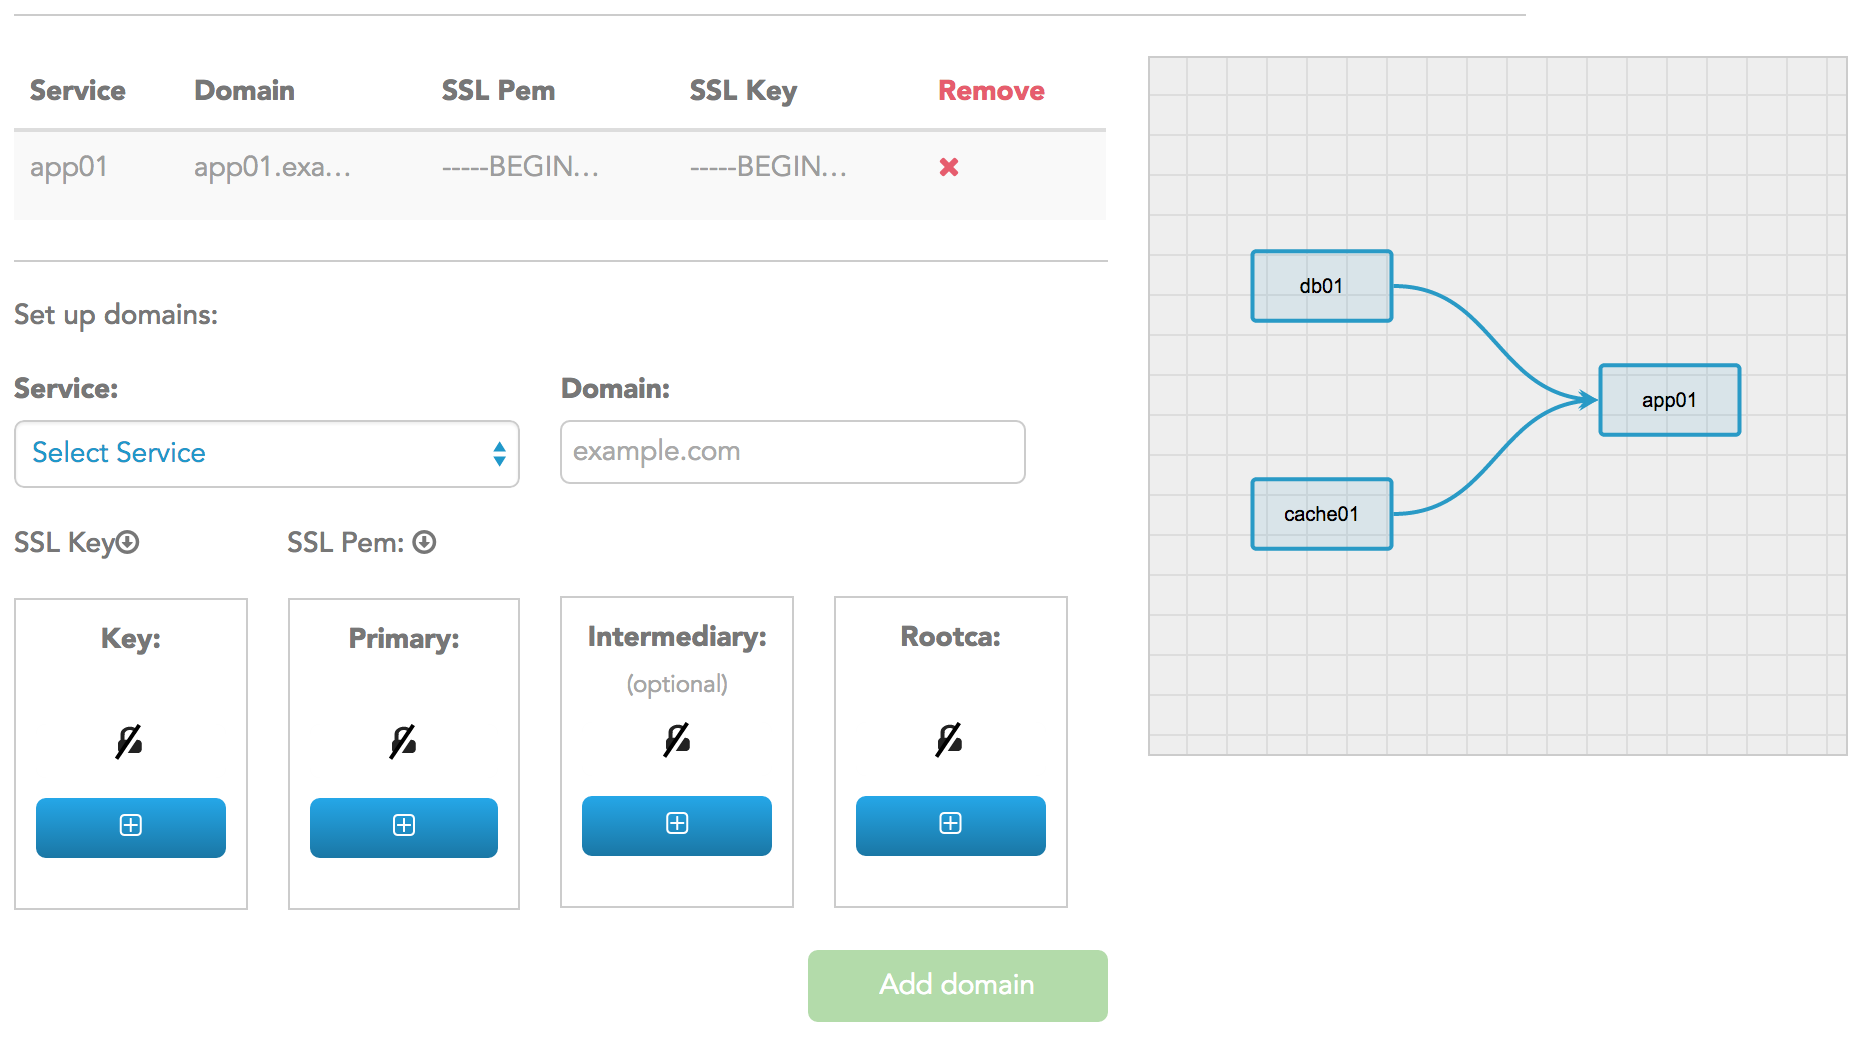
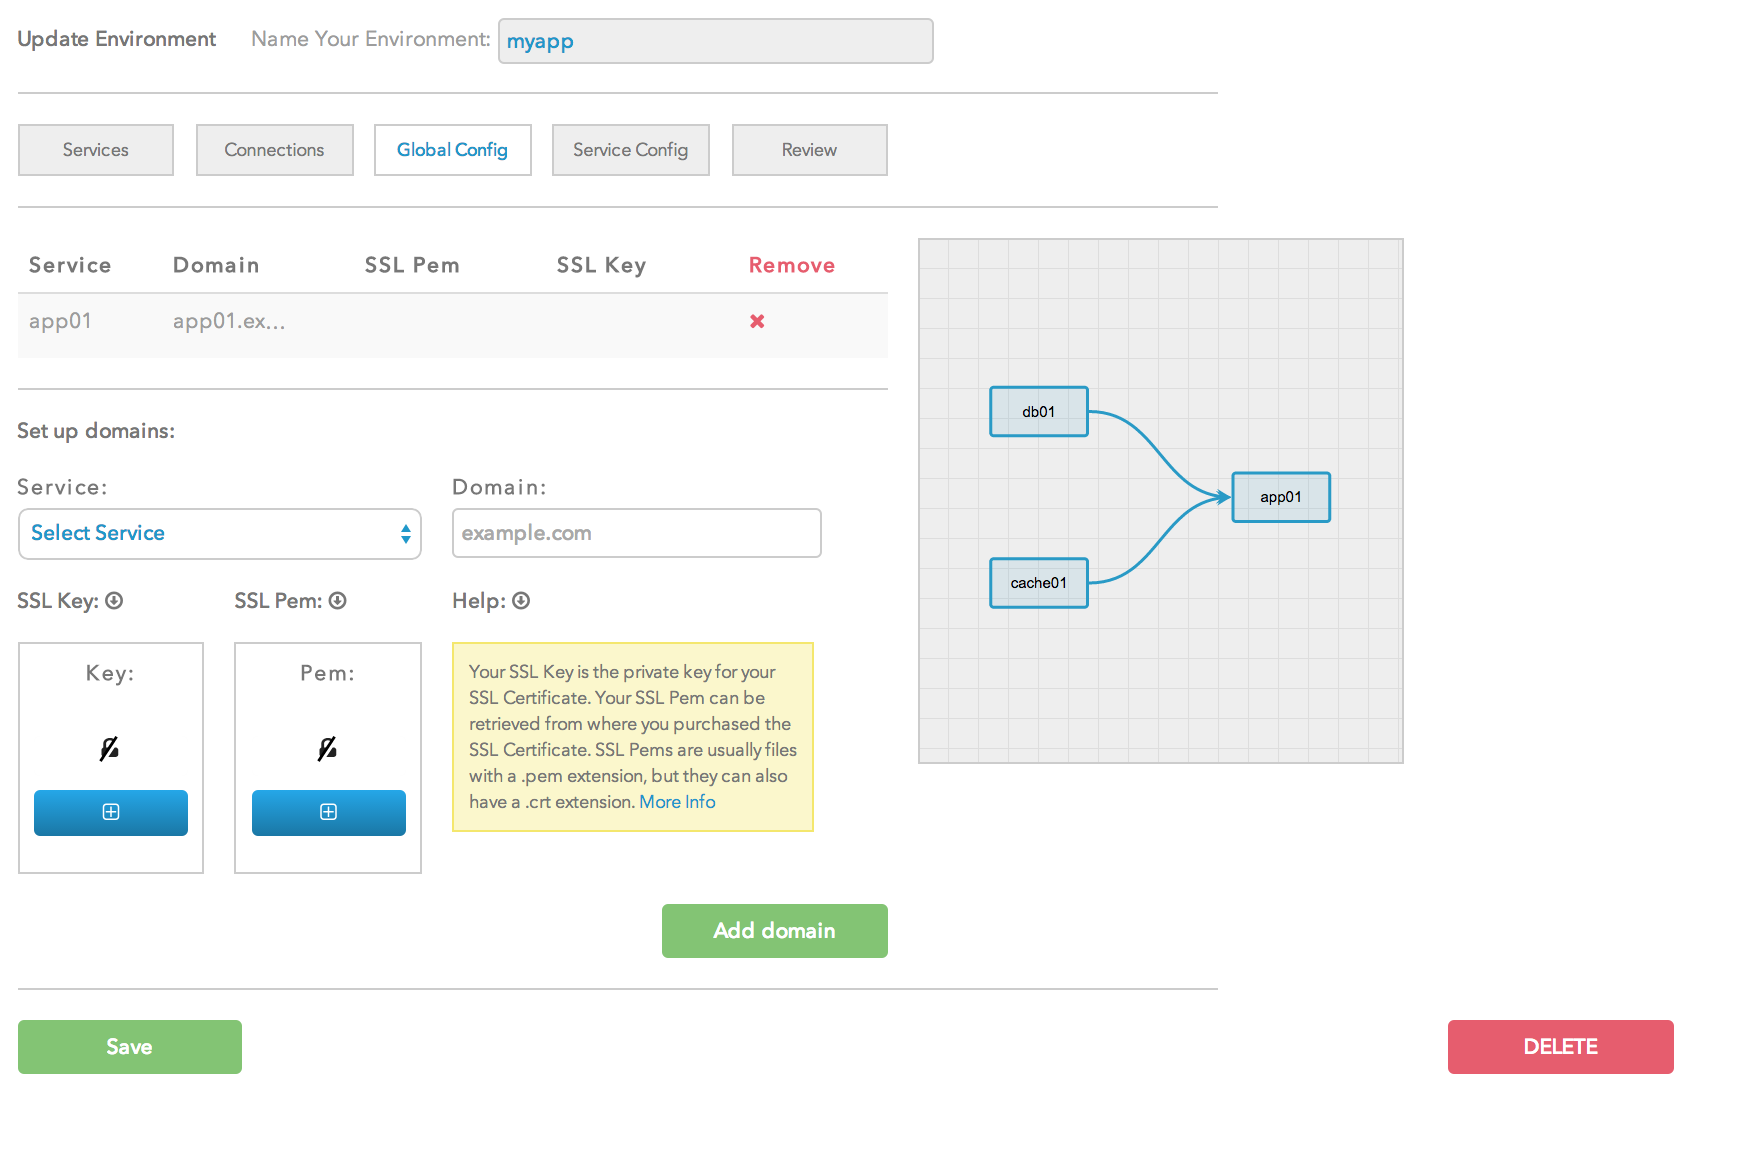
Updated with new SSL screenshots and eliminated
unnecessary content.

diff --git a/deploying_your_first_app/domain_names.md b/deploying_your_first_app/domain_names.md
@@ -34,14 +34,8 @@ Quick note: please remember to click the blue (+) button to open the textbox to 
 
 **SSL PEM**: You will also need the PEM for the Primary, Intermediate and RootCA authorities. Click on the blue **+** below each of them and paste the values in there. Details on how to go about generating and getting the PEMs are available [here](https://www.digicert.com/ssl-support/pem-ssl-creation.htm). Details and some explanation around what the PEM (also sometimes used interchangeably with .crt files) are also available [here](http://how2ssl.com/articles/working_with_pem_files/). Since various providers give this information to you differently. We'd recommend opening up the PEM file and copying and pasting the individual sections *including* the ``` ---- BEGIN ``` and ```END ----``` portions.
 
-- **SSL Primary**: Click the blue (+) button and paste in the primary cert as shown below. Remember to include the ``` ---- BEGIN ``` and ```END ----``` portions. 
-![Adding Primary Cert](../pics/21.add.primary.cert.png)
-- **Intermediary**: This is optional and often depends on the certificate provider. We haven't provided you with a screenshot of this but if you have this information, please paste it in as well.
-- **Rootca**: Again, click the blue (+), paste the cert including the ``` ---- BEGIN ``` and ```END ----``` portions. 
-![Adding Root CA](../pics/22.add.root.ca.png)
+![Adding PEM](../pics/21.add.pem.png)
 
-After adding all these pieces of information, your screen should look something like this. Note that the Intermediary box has an *unlocked* icon on it as no information was entered there.
-![Added all cert info](../pics/23.added.all.png)
 
 After pasting the info above, click on the **Add Domain** button and you should see the domain you just added show up in the listing below as shown below.
 

diff --git a/deploying_your_first_app/ssh_keys.md b/deploying_your_first_app/ssh_keys.md
@@ -62,11 +62,8 @@ pbcopy < ~/.ssh/id_rsa.pub
 ###Step 4: Paste it into the dashboard
 
 Paste the key that you just copied into the dashboard as shown below.
-![Paste the SSH key here](../pics/25.ssh.key.jpg) You can put anything in the Title box. We recommend either the user's name or ideally the email address for which the key was generated. So after this, your screen should look something like this
+You can put anything in the Title box. We recommend either the user's name or ideally the email address for which the key was generated. Once your click on the green "Add Key" button, you will see the listing of SSH keys above the text entry boxes. Note that you can add multiple ssh keys for each user you want to authorize to push code to the app.
 
-![SSH keys](../pics/26.ssh.keys.entered.png)
-
-Once your click on the green "Add Key" button, you will see the listing of SSH keys above the text entry boxes. Note that you can add multiple ssh keys for each user you want to authorize to push code to the app.
 ![SSH key listing](../pics/26.ssh.keys.entered.png)
 
 If you make mistakes or someone within your team leaves or moves to a different project, you can always come back here and remove their SSH key by clicking on the red (x) next to their email. This is the reason why we also recommend either using the person's name or email address in the Title box.
